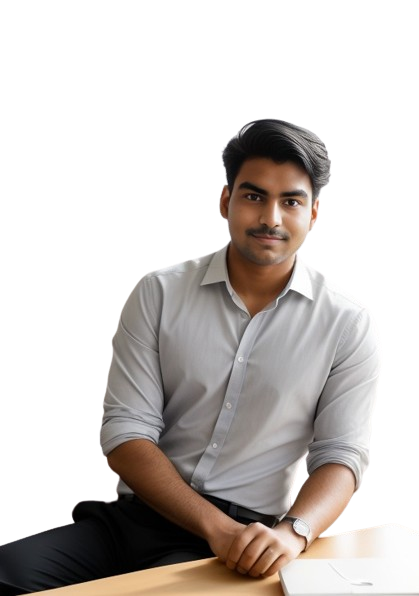
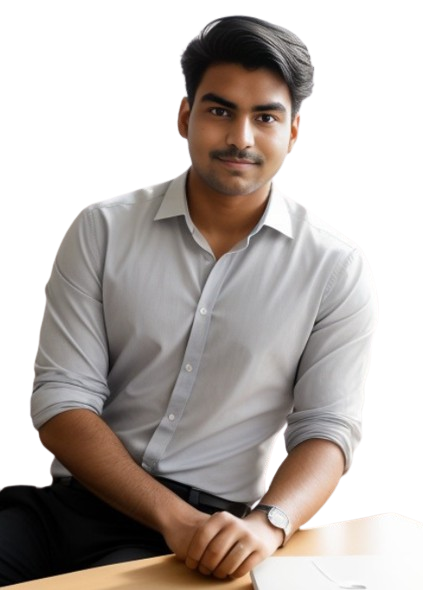
change profile image

diff --git a/index.html b/index.html
@@ -152,7 +152,7 @@
             <div class="container">
                 <div class="hero__section--inner d-flex align-items-center">
                     <div class="hero__thumbnail position__relative">
-                        <img class="hero__thumbnail--media light_img" src="assets/img/hero/1.png" alt="img">
+                        <img class="hero__thumbnail--media light_img" src="assets/img/hero/1.png" alt="img" style="max-width: 80%;">
                         <img class="hero__thumbnail--media dark_img" src="assets/img/hero/1.png" alt="img">
                         <div class="projects__budget d-flex align-items-center">
                             <span class="projects__budget--icon">
